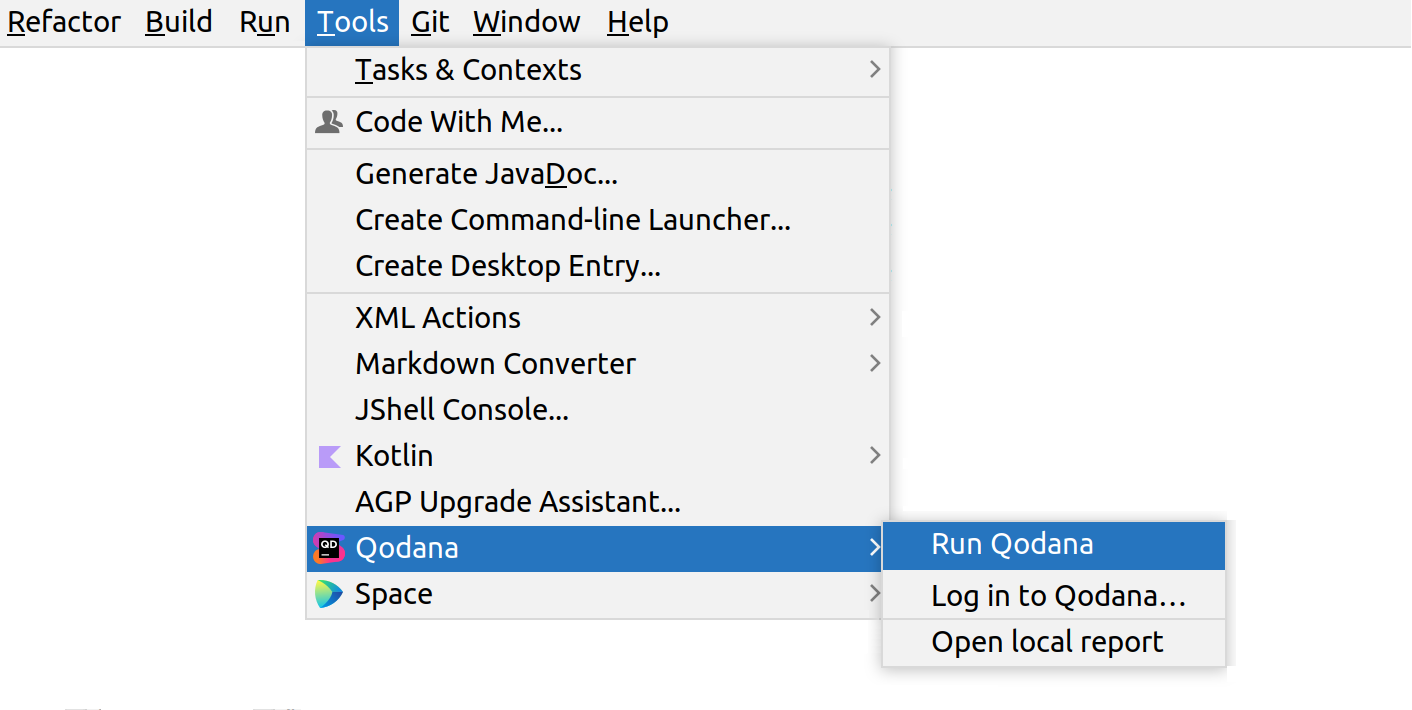
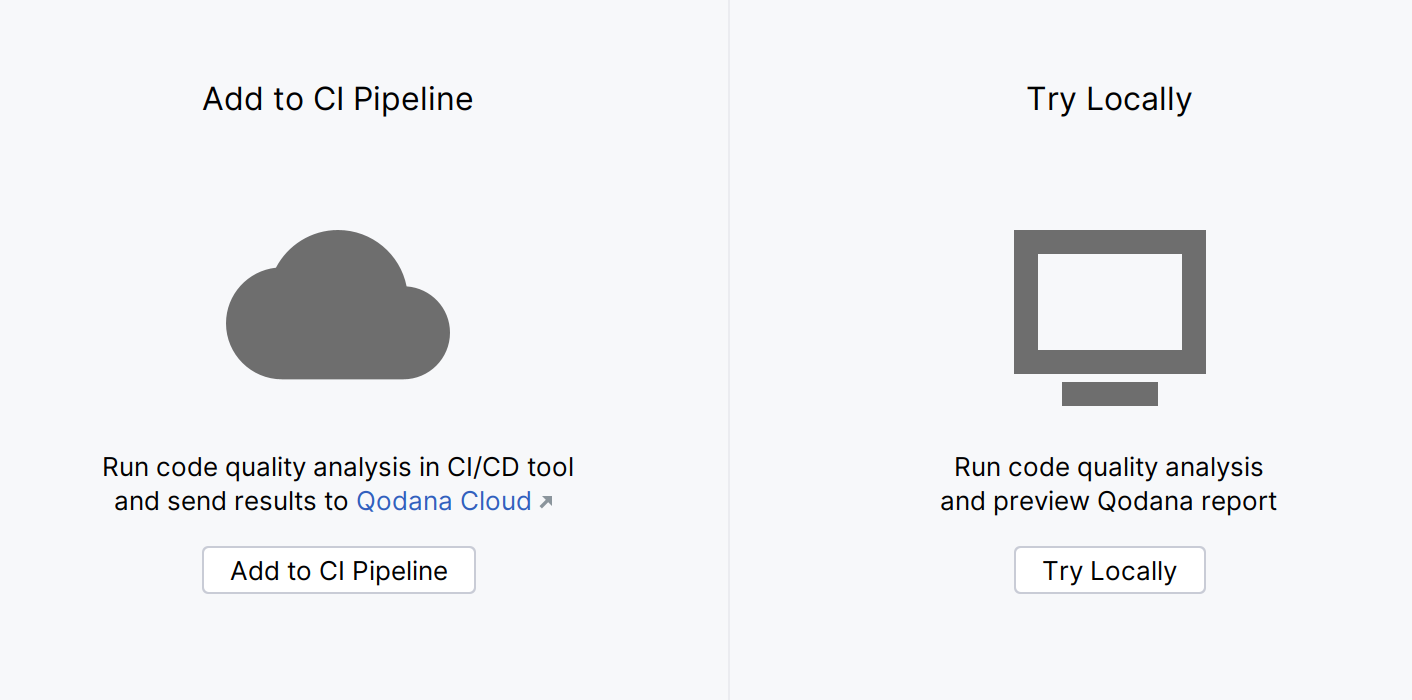
QD-5928 Updated the Run Qodana section

diff --git a/topics/qodana-ide-plugin.md b/topics/qodana-ide-plugin.md
@@ -1,25 +1,110 @@
 [//]: # (title: IDE integration)
 
-Starting from version 2022.3, you can use %product% functionality in JetBrains IDEs for binding Qodana 
-reports, both stored locally or in Qodana Cloud, with your project opened in an IDE. This means that you can:
+Starting from version 2022.3, you can use %product% functionality in JetBrains IDEs, such as 
+IntelliJ IDEA, PhpStorm, WebStorm, Rider, GoLand, PyCharm, and Rider installed via
+[JetBrains Toolbox App](https://www.jetbrains.com/toolbox-app/).
 
-* Study [Qodana reports](#Open+report+from+Qodana+UI) including reports [stored locally](#Open+report+from+a+local+storage) 
-* Link your projects with [Qodana Cloud](#Link+project+with+Qodana+Cloud) and overview Qodana Cloud-based reports
-
-<note>Prior to 2022.3, this functionality was available as a plugin published 
-on <a href="https://plugins.jetbrains.com/plugin/16938-qodana">JetBrains Marketplace</a>.</note>
-
-Qodana is integrated in IntelliJ IDEA, PhpStorm, WebStorm, Rider, GoLand, PyCharm, and Rider.
-
-## Before you start
-
-1. Make sure that your preferred IDE is installed via [JetBrains Toolbox App](https://www.jetbrains.com/toolbox-app/).
-2. To open Qodana reports from your local storage, make sure that you previously opened the project by the IDE at least 
-   one time. This action establishes the link between the %product% report and your IDE.
+<note>Prior to 2022.3, this was available as a plugin published 
+on <a href="https://plugins.jetbrains.com/plugin/16938-qodana">JetBrains Marketplace</a>. However, the plugin functionalities
+can differ from the functionalities described in this section.</note>
 
 ## UI overview
 
-%product% is available in the **Server-Side Analysis** tab contained in the **Problems** window of your IDE and exposes 
+%product% functionality is available in <menupath>Tools | Qodana</menupath> menu of your IDE. Using it, you can:
+
+<!-- This can be made a table to contain the description of all features -->
+
+* [Run %product% locally](#ide-plugin-run-qodana) 
+* [Configure %product% for running in a CI/CD pipeline](#ide-plugin-cicd) 
+* [Connect to Qodana Cloud](#ide-plugin-connect-cloud) 
+* [Open a report from local storage](#ide-plugin-local-report) 
+
+
+<!-- The Server-side analysis tab needs to be added here -->
+
+## Run %product% locally
+{id="ide-plugin-run-qodana"}
+
+<!-- A small annotation is required here -->
+
+<procedure>
+
+<step>
+   <p>In your IDE, navigate to <menupath>Tools | Qodana | Try Code Analysis with Qodana</menupath>.</p> 
+</step>
+<step>
+   <p>In the <menupath>Run Qodana</menupath> dialog, click the <menupath>Try locally</menupath> button. </p>
+   <img src="ide-plugin-run-qodana-1.png" dark-src="ide-plugin-run-qodana-1_dark.png" width="706" alt="First step of the Run Qodana dialog" border-effect="line"/>
+</step>
+<step>
+   <p>In the upper part of the <menupath>Run Qodana</menupath> dialog, configure the <a href="qodana-yaml.md"><code>qodana.yaml</code></a> file.</p>
+   <p>Below the text field, you can configure %product% to:</p>
+      <list>
+         <li><a href="cloud-forward-reports.xml">Forward inspection results</a> to Qodana Cloud using the <a href="cloud-projects.xml" anchor="cloud-manage-projects">project token</a></li>
+         <li><a href="qodana-yaml.md">Save <code>qodana.yaml</code></a> in your project root</li>
+         <li><a href="baseline.xml">Run the baseline</a> feature</li>
+      </list>
+   <img src="ide-plugin-run-qodana-2.png" dark-src="ide-plugin-run-qodana-2_dark.png" width="793" alt="Configuring Qodana in the Run Qodana dialog" border-effect="line"/>
+</step>
+<step>
+   <p>In the <menupath>Server-Side Analysis</menupath> window tool, you can overview inspection results.</p>
+   <img src="ide-plugin-run-qodana-3.png" dark-src="ide-plugin-run-qodana-3_dark.png" width="706" alt="Inspection results" border-effect="line"/>
+</step>
+</procedure>
+
+<!-- Here the link to the section describing the Server-Side Analysis tool window needs to be added -->
+
+## Configure %product% for CI/CD
+{id="ide-plugin-cicd"}
+
+<!-- A small annotation is required here -->
+
+<procedure>
+   <step>
+      <p>In your IDE, navigate to <menupath>Tools | Qodana | Try Code Analysis with Qodana</menupath>.</p>
+   </step>
+   <step>
+      <p>In the <menupath>Run Qodana</menupath> dialog, click the <menupath>Add to CI Pipeline</menupath> button. </p>
+      <img src="ide-plugin-run-qodana-1.png" dark-src="ide-plugin-run-qodana-1_dark.png" width="706" alt="First step of the Run Qodana dialog" border-effect="line"/>
+   </step>
+   <step>
+      <p>In the <menupath>Run Qodana</menupath> dialog, configure the <a href="qodana-yaml.md"><code>qodana.yaml</code></a> file.</p>
+      <img src="ide-plugin-cicd-1.png" dark-src="ide-plugin-cicd-1_dark.png" width="706" alt="Second step of the CI/CD configuration in the Run Qodana dialog" border-effect="line"/>
+   </step>
+   <step>
+      <p>Select the CI/CD solution you would like to configure %product% for, and study the instructions.</p>
+      <img src="ide-plugin-cicd-2.png" dark-src="ide-plugin-cicd-2_dark.png" width="706" alt="Third step of the CI/CD configuration in the Run Qodana dialog" border-effect="line"/>
+   </step>
+</procedure>
+
+## Connect to Qodana Cloud
+{id="ide-plugin-connect-cloud"}
+
+<!-- A small annotation is required here -->
+
+<procedure>
+   <step>
+      <p>In your IDE, navigate to <menupath>Tools | Qodana | Log in to Qodana</menupath>.</p>
+   </step>
+   <step>
+      <p>
+      <img src="ide-plugin-connect-1.png" dark-src="ide-plugin-connect-1_dark.png" width="706" alt="The first step connecting to Qodana Cloud" border-effect="line"/>
+      </p>
+   </step>
+   <step>
+   
+   </step>
+   <step>
+   
+   </step>
+</procedure>
+
+## Open a local report
+{id="ide-plugin-local-report"}
+
+<!-- A small annotation is required here -->
+
+
 the list of problems that were detected by Qodana.
 
 <img src="ide-plugin-tab-overview-1.png" dark-src="ide-plugin-tab-overview-1_dark.png" width="706" alt="Overview of the Qodana tab" border-effect="line"/>
@@ -167,6 +252,9 @@ Alternatively, in the <menupath>Qodana</menupath> tab of the <menupath>Problems<
 <img src="ide-plugin-update-report-2.png" dark-src="ide-plugin-update-report-2_dark.png" width="706" alt="Updating the report using the Qodana tab" border-effect="line"/>
 
 ## Open report from a local storage
+
+<note>To open Qodana reports from your local storage, make sure that you previously opened the project by the IDE at least
+   one time. This action establishes the link between the %product% report and your IDE.</note>
 
 In the IDE, go to <menupath>Tools | Qodana | Open Qodana Analysis report</menupath> and select the
 <code>qodana.sarif.json</code> report file you would like to open.
